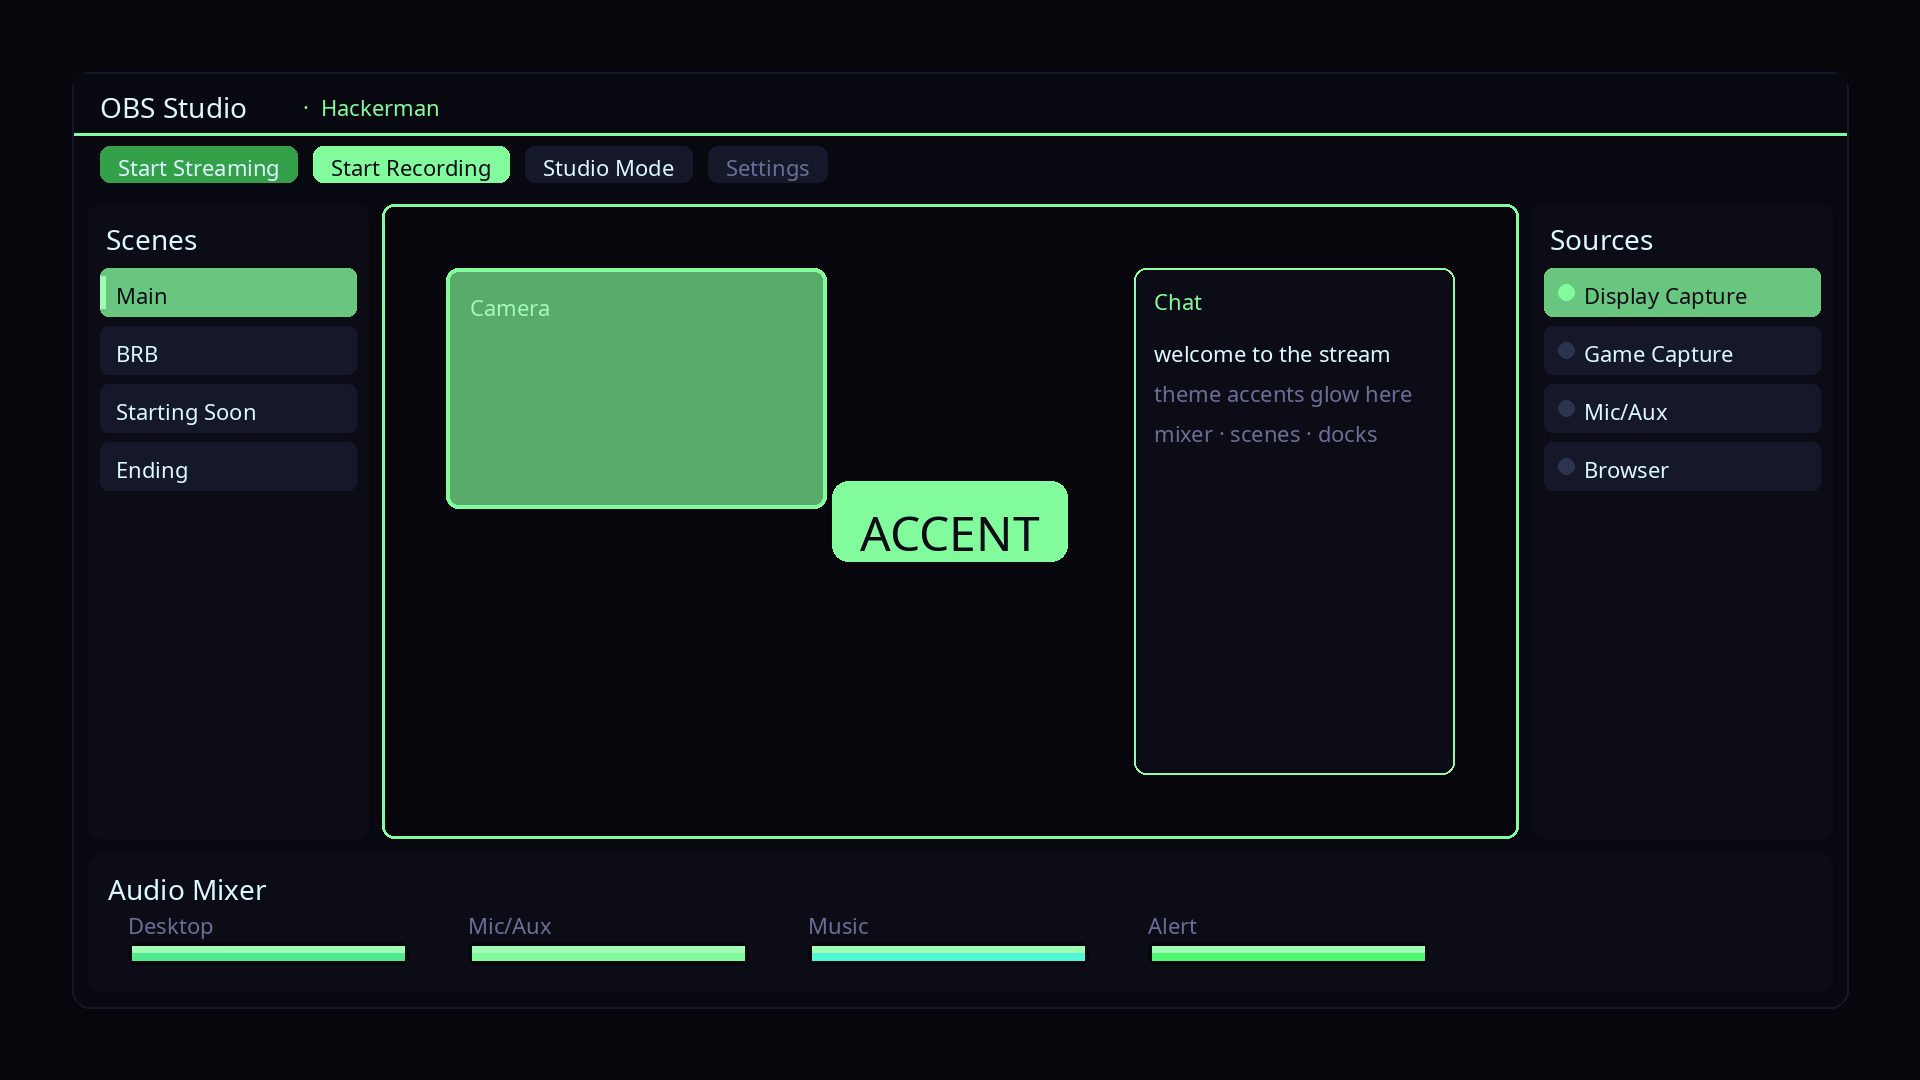
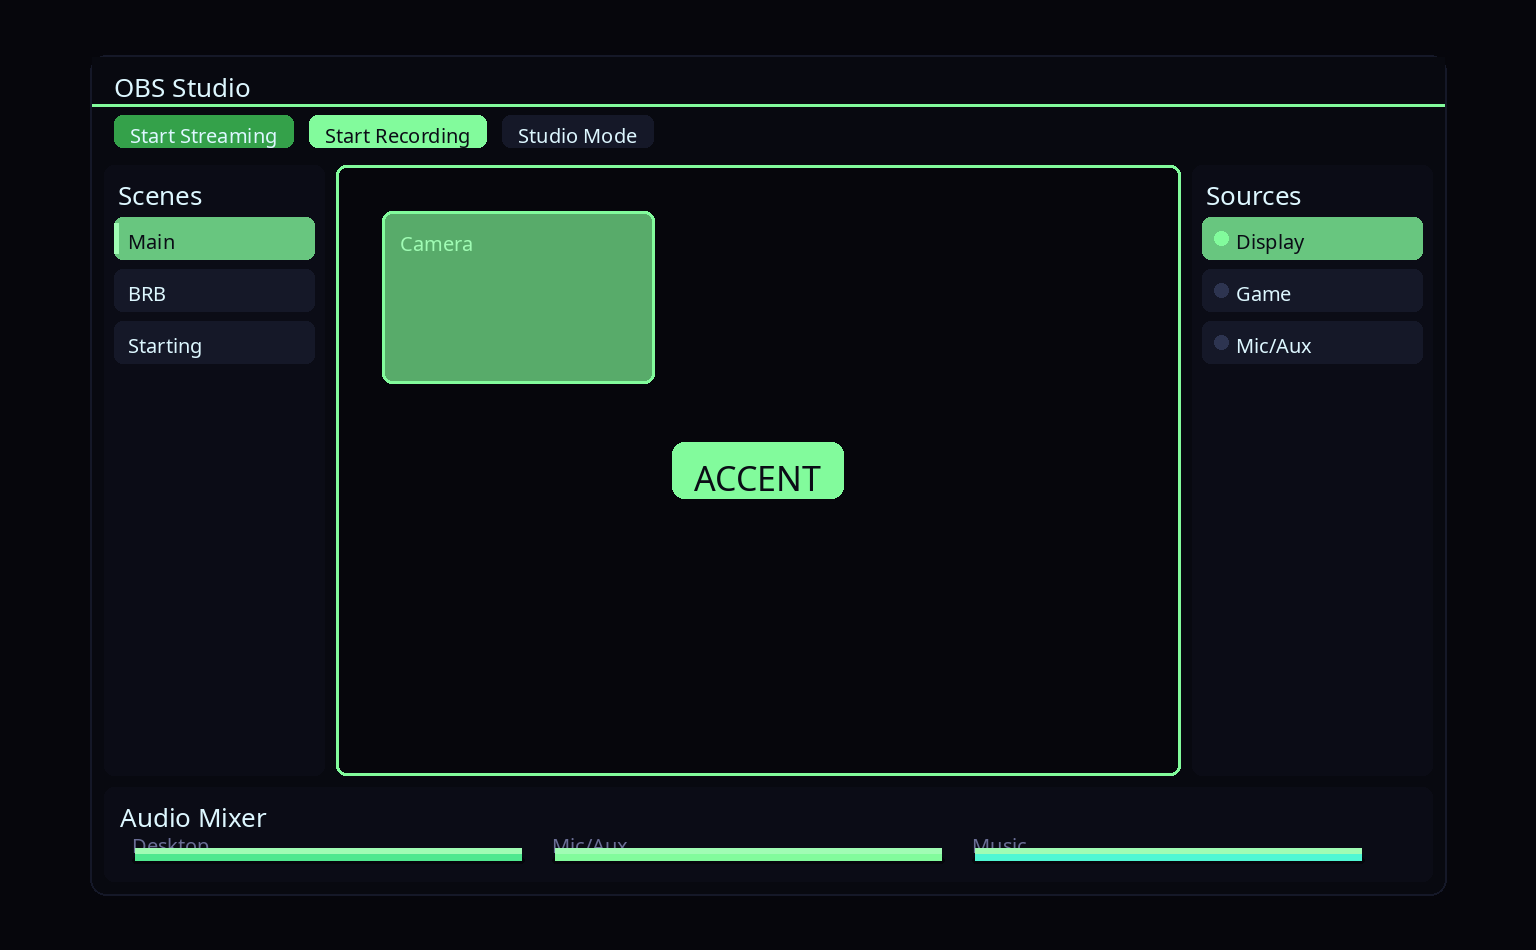
Center OBS mockups for the Style carousel and document no-extra-asset goals.
Match the tile aspect so picker crop stops shaving docks/labels, and clarify
that mockups are illustrative — only Omarchy.ovt is the real apply path.

diff --git a/lib/omaobs.py b/lib/omaobs.py
@@ -1,5 +1,9 @@
 #!/usr/bin/env python3
-"""OmaOBS — turn Omarchy palettes into OBS Studio Yami variants + mockups."""
+"""OmaOBS — Omarchy palettes → OBS Yami variants + Style-carousel mockups.
+
+Discovers every theme with a colors.toml (no extra theme assets). Mockups are
+illustrative OBS chrome matched to the Style tile aspect — not live captures.
+"""
 
 from __future__ import annotations
 
@@ -689,170 +693,153 @@ def draw_round_rect(
     draw.rounded_rectangle(box, radius=radius, fill=fill, outline=outline, width=width)
 
 
-def render_mockup(palette: dict[str, Any], dest: Path, size: tuple[int, int] = (1920, 1080)) -> Path:
+# Style carousel selected tile is 768×475 (~1.62). Match that aspect so
+# PreserveAspectCrop does not shave left/right the way 16:9 sources do.
+MOCKUP_SIZE = (1536, 950)
+
+
+def render_mockup(palette: dict[str, Any], dest: Path, size: tuple[int, int] = MOCKUP_SIZE) -> Path:
+    """Simplified OBS chrome, centered for the Style carousel safe zone."""
     w, h = size
     img = Image.new("RGB", size, hex_to_rgb(palette["grey8"]))
     draw = ImageDraw.Draw(img)
 
-    font_sm = try_font(22)
-    font_md = try_font(28)
-    font_lg = try_font(36)
-    font_xl = try_font(48)
+    font_sm = try_font(20)
+    font_md = try_font(26)
+    font_lg = try_font(34)
 
-    # Outer desktop margin
-    margin = 72
-    win = (margin, margin, w - margin, h - margin)
-    draw_round_rect(draw, win, palette["grey7"], radius=18, outline=palette["grey5"], width=2)
+    # Window inset — keep docks/preview inside the tile, not at the bleed.
+    margin_x, margin_y = 90, 55
+    win = (margin_x, margin_y, w - margin_x, h - margin_y)
+    draw_round_rect(draw, win, palette["grey7"], radius=16, outline=palette["grey5"], width=2)
 
-    # Title bar / menubar chrome (bg_window → grey7)
-    title_bottom = margin + 64
-    draw.rectangle((margin + 2, margin + 2, w - margin - 2, title_bottom), fill=hex_to_rgb(palette["grey7"]))
-    draw.text((margin + 28, margin + 16), "OBS Studio", font=font_md, fill=hex_to_rgb(palette["text"]))
-    draw.text(
-        (margin + 220, margin + 20),
-        f"  ·  {palette['name']}",
-        font=font_sm,
+    title_bottom = margin_y + 52
+    draw.rectangle(
+        (margin_x + 2, margin_y + 2, w - margin_x - 2, title_bottom),
+        fill=hex_to_rgb(palette["grey7"]),
+    )
+    draw.text((margin_x + 24, margin_y + 14), "OBS Studio", font=font_md, fill=hex_to_rgb(palette["text"]))
+    draw.rectangle(
+        (margin_x + 2, title_bottom - 3, w - margin_x - 2, title_bottom),
         fill=hex_to_rgb(palette["primary"]),
     )
 
-    # Accent underline under title
+    toolbar_bottom = title_bottom + 48
     draw.rectangle(
-        (margin + 2, title_bottom - 3, w - margin - 2, title_bottom),
-        fill=hex_to_rgb(palette["primary"]),
-    )
-
-    # Toolbar sits on the same chrome strip
-    toolbar_bottom = title_bottom + 56
-    draw.rectangle(
-        (margin + 2, title_bottom, w - margin - 2, toolbar_bottom),
+        (margin_x + 2, title_bottom, w - margin_x - 2, toolbar_bottom),
         fill=hex_to_rgb(palette["grey7"]),
     )
     buttons = [
         ("Start Streaming", palette["button_bg_red"], palette["on_red"]),
         ("Start Recording", palette["primary"], palette["on_accent"]),
         ("Studio Mode", palette["grey5"], palette["text"]),
-        ("Settings", palette["grey5"], palette["text_muted"]),
     ]
-    bx = margin + 28
+    bx = margin_x + 24
     for label, fill, fg in buttons:
         tw = draw.textlength(label, font=font_sm)
-        draw_round_rect(draw, (bx, title_bottom + 10, int(bx + tw + 36), toolbar_bottom - 10), fill, radius=10)
-        draw.text((bx + 18, title_bottom + 16), label, font=font_sm, fill=hex_to_rgb(fg))
-        bx += int(tw + 52)
-
-    # Layout docks
-    content_top = toolbar_bottom + 12
-    content_bottom = h - margin - 170
-    left_w = 280
-    right_w = 300
-
-    left = (margin + 16, content_top, margin + 16 + left_w, content_bottom)
-    right = (w - margin - 16 - right_w, content_top, w - margin - 16, content_bottom)
-    center = (left[2] + 14, content_top, right[0] - 14, content_bottom)
-
-    draw_round_rect(draw, left, palette["grey6"], radius=12)
-    draw_round_rect(draw, right, palette["grey6"], radius=12)
-    draw_round_rect(draw, center, palette["grey8"], radius=12, outline=palette["primary"], width=3)
-
-    # Scenes dock
-    draw.text((left[0] + 18, left[1] + 16), "Scenes", font=font_md, fill=hex_to_rgb(palette["text"]))
-    scenes = [("Main", True), ("BRB", False), ("Starting Soon", False), ("Ending", False)]
-    sy = left[1] + 64
-    for label, selected in scenes:
-        box = (left[0] + 12, sy, left[2] - 12, sy + 48)
-        fill = palette["selected_bg"] if selected else palette["grey5"]
-        ink = palette["on_selected"] if selected else palette["text"]
-        draw_round_rect(draw, box, fill, radius=8)
-        draw.text((box[0] + 16, box[1] + 12), label, font=font_sm, fill=hex_to_rgb(ink))
-        if selected:
-            draw.rectangle((box[0], box[1] + 8, box[0] + 5, box[3] - 8), fill=hex_to_rgb(palette["primary_lighter"]))
-        sy += 58
-
-    # Sources dock
-    draw.text((right[0] + 18, right[1] + 16), "Sources", font=font_md, fill=hex_to_rgb(palette["text"]))
-    sources = [("Display Capture", True), ("Game Capture", False), ("Mic/Aux", False), ("Browser", False)]
-    sy = right[1] + 64
-    for label, selected in sources:
-        box = (right[0] + 12, sy, right[2] - 12, sy + 48)
-        fill = palette["selected_bg"] if selected else palette["grey5"]
-        ink = palette["on_selected"] if selected else palette["text"]
-        draw_round_rect(draw, box, fill, radius=8)
-        # visibility dot in accent
-        draw.ellipse((box[0] + 14, box[1] + 16, box[0] + 30, box[1] + 32), fill=hex_to_rgb(palette["primary"] if selected else palette["muted"]))
-        draw.text((box[0] + 40, box[1] + 12), label, font=font_sm, fill=hex_to_rgb(ink))
-        sy += 58
-
-    # Preview canvas content
-    preview_inset = (center[0] + 24, center[1] + 24, center[2] - 24, center[3] - 24)
-    draw_round_rect(draw, preview_inset, palette["darker_background"], radius=10)
-    # Fake webcam / content blocks tinted with accent
-    cam = (
-        preview_inset[0] + 40,
-        preview_inset[1] + 40,
-        preview_inset[0] + 420,
-        preview_inset[1] + 280,
-    )
-    draw_round_rect(draw, cam, palette["primary_darker"], radius=12, outline=palette["primary"], width=4)
-    draw.text((cam[0] + 24, cam[1] + 24), "Camera", font=font_sm, fill=hex_to_rgb(palette["primary_lighter"]))
-
-    chat = (
-        preview_inset[2] - 360,
-        preview_inset[1] + 40,
-        preview_inset[2] - 40,
-        preview_inset[3] - 40,
-    )
-    draw_round_rect(draw, chat, palette["grey6"], radius=12, outline=palette["primary_light"], width=2)
-    draw.text((chat[0] + 20, chat[1] + 18), "Chat", font=font_sm, fill=hex_to_rgb(palette["primary"]))
-    for i, line in enumerate(("welcome to the stream", "theme accents glow here", "mixer · scenes · docks")):
-        draw.text(
-            (chat[0] + 20, chat[1] + 70 + i * 40),
-            line,
-            font=font_sm,
-            fill=hex_to_rgb(palette["text_muted"] if i else palette["text"]),
+        draw_round_rect(
+            draw, (bx, title_bottom + 8, int(bx + tw + 32), toolbar_bottom - 8), fill, radius=8
         )
+        draw.text((bx + 16, title_bottom + 14), label, font=font_sm, fill=hex_to_rgb(fg))
+        bx += int(tw + 48)
 
-    # Big accent badge in preview
-    badge = "ACCENT"
-    bw = draw.textlength(badge, font=font_xl)
-    badge_box = (
-        int((preview_inset[0] + preview_inset[2] - bw) / 2 - 28),
-        int((preview_inset[1] + preview_inset[3]) / 2 - 40),
-        int((preview_inset[0] + preview_inset[2] + bw) / 2 + 28),
-        int((preview_inset[1] + preview_inset[3]) / 2 + 40),
+    content_top = toolbar_bottom + 10
+    content_bottom = h - margin_y - 120
+    left_w = 220
+    right_w = 240
+
+    left = (margin_x + 14, content_top, margin_x + 14 + left_w, content_bottom)
+    right = (w - margin_x - 14 - right_w, content_top, w - margin_x - 14, content_bottom)
+    center = (left[2] + 12, content_top, right[0] - 12, content_bottom)
+
+    draw_round_rect(draw, left, palette["grey6"], radius=10)
+    draw_round_rect(draw, right, palette["grey6"], radius=10)
+    draw_round_rect(draw, center, palette["grey8"], radius=10, outline=palette["primary"], width=3)
+
+    draw.text((left[0] + 14, left[1] + 12), "Scenes", font=font_md, fill=hex_to_rgb(palette["text"]))
+    scenes = [("Main", True), ("BRB", False), ("Starting", False)]
+    sy = left[1] + 52
+    for label, selected in scenes:
+        box = (left[0] + 10, sy, left[2] - 10, sy + 42)
+        fill = palette["selected_bg"] if selected else palette["grey5"]
+        ink = palette["on_selected"] if selected else palette["text"]
+        draw_round_rect(draw, box, fill, radius=8)
+        draw.text((box[0] + 14, box[1] + 10), label, font=font_sm, fill=hex_to_rgb(ink))
+        if selected:
+            draw.rectangle(
+                (box[0], box[1] + 6, box[0] + 4, box[3] - 6),
+                fill=hex_to_rgb(palette["primary_lighter"]),
+            )
+        sy += 52
+
+    draw.text((right[0] + 14, right[1] + 12), "Sources", font=font_md, fill=hex_to_rgb(palette["text"]))
+    sources = [("Display", True), ("Game", False), ("Mic/Aux", False)]
+    sy = right[1] + 52
+    for label, selected in sources:
+        box = (right[0] + 10, sy, right[2] - 10, sy + 42)
+        fill = palette["selected_bg"] if selected else palette["grey5"]
+        ink = palette["on_selected"] if selected else palette["text"]
+        draw_round_rect(draw, box, fill, radius=8)
+        draw.ellipse(
+            (box[0] + 12, box[1] + 14, box[0] + 26, box[1] + 28),
+            fill=hex_to_rgb(palette["primary"] if selected else palette["muted"]),
+        )
+        draw.text((box[0] + 34, box[1] + 10), label, font=font_sm, fill=hex_to_rgb(ink))
+        sy += 52
+
+    preview_inset = (center[0] + 18, center[1] + 18, center[2] - 18, center[3] - 18)
+    draw_round_rect(draw, preview_inset, palette["darker_background"], radius=8)
+    cam = (
+        preview_inset[0] + 28,
+        preview_inset[1] + 28,
+        preview_inset[0] + 300,
+        preview_inset[1] + 200,
     )
-    draw_round_rect(draw, badge_box, palette["primary"], radius=16)
+    draw_round_rect(draw, cam, palette["primary_darker"], radius=10, outline=palette["primary"], width=3)
+    draw.text((cam[0] + 18, cam[1] + 18), "Camera", font=font_sm, fill=hex_to_rgb(palette["primary_lighter"]))
+
+    badge = "ACCENT"
+    bw = draw.textlength(badge, font=font_lg)
+    badge_box = (
+        int((preview_inset[0] + preview_inset[2] - bw) / 2 - 22),
+        int((preview_inset[1] + preview_inset[3]) / 2 - 28),
+        int((preview_inset[0] + preview_inset[2] + bw) / 2 + 22),
+        int((preview_inset[1] + preview_inset[3]) / 2 + 28),
+    )
+    draw_round_rect(draw, badge_box, palette["primary"], radius=12)
     draw.text(
-        (badge_box[0] + 28, badge_box[1] + 18),
+        (badge_box[0] + 22, badge_box[1] + 12),
         badge,
-        font=font_xl,
+        font=font_lg,
         fill=hex_to_rgb(palette["on_accent"]),
     )
 
-    # Mixer strip
-    mixer_top = content_bottom + 16
-    mixer = (margin + 16, mixer_top, w - margin - 16, h - margin - 16)
-    draw_round_rect(draw, mixer, palette["grey6"], radius=12)
-    draw.text((mixer[0] + 20, mixer[1] + 16), "Audio Mixer", font=font_md, fill=hex_to_rgb(palette["text"]))
+    mixer_top = content_bottom + 12
+    mixer = (margin_x + 14, mixer_top, w - margin_x - 14, h - margin_y - 14)
+    draw_round_rect(draw, mixer, palette["grey6"], radius=10)
+    draw.text((mixer[0] + 16, mixer[1] + 12), "Audio Mixer", font=font_md, fill=hex_to_rgb(palette["text"]))
 
     meters = [
         ("Desktop", palette["green"], 0.82),
         ("Mic/Aux", palette["primary"], 0.55),
         ("Music", palette["yellow"], 0.35),
-        ("Alert", palette["red"], 0.2),
     ]
-    mx = mixer[0] + 40
-    meter_bottom = mixer[3] - 28
-    meter_top = mixer[1] + 60
+    mx = mixer[0] + 28
+    meter_bottom = mixer[3] - 18
+    meter_top = mixer[1] + 48
+    meter_w = max(160, (mixer[2] - mixer[0] - 80) // len(meters) - 24)
     for label, color, level in meters:
         draw.text((mx, meter_top - 4), label, font=font_sm, fill=hex_to_rgb(palette["text_muted"]))
-        bar = (mx, meter_top + 28, mx + 280, meter_bottom)
-        draw_round_rect(draw, bar, palette["grey8"], radius=8)
-        height = max(14, int((bar[3] - bar[1] - 8) * level))
-        filled_top = bar[3] - 4 - height
-        draw.rectangle((bar[0] + 4, filled_top, bar[2] - 4, bar[3] - 4), fill=hex_to_rgb(color))
-        # Peak cap in accent
-        draw.rectangle((bar[0] + 4, filled_top, bar[2] - 4, filled_top + 6), fill=hex_to_rgb(palette["primary_lighter"]))
-        mx += 340
+        bar = (mx, meter_top + 22, mx + meter_w, meter_bottom)
+        draw_round_rect(draw, bar, palette["grey8"], radius=6)
+        height = max(12, int((bar[3] - bar[1] - 6) * level))
+        filled_top = bar[3] - 3 - height
+        draw.rectangle((bar[0] + 3, filled_top, bar[2] - 3, bar[3] - 3), fill=hex_to_rgb(color))
+        draw.rectangle(
+            (bar[0] + 3, filled_top, bar[2] - 3, filled_top + 5),
+            fill=hex_to_rgb(palette["primary_lighter"]),
+        )
+        mx += meter_w + 28
 
     dest.parent.mkdir(parents=True, exist_ok=True)
     img.save(dest, format="PNG", optimize=True)

diff --git a/README.md b/README.md
@@ -16,6 +16,24 @@ lockstep forever after.
 > Illustrative mockup of the same pipeline (Hackerman): see
 > [preview-mockup.png](preview-mockup.png).
 
+## Goals (and honest limits)
+
+These Style plugins extend Omarchy’s theme system **without requiring theme
+authors — or you — to ship anything extra**. Official themes, your forks, and
+third-party installs all work as long as they have a `colors.toml`.
+
+| Goal | What that means here |
+|------|----------------------|
+| Zero extra assets | No per-theme OBS screenshots. Colours come from `colors.toml` alone. |
+| Extreme compatibility | Stock + user + foreign themes all appear in the picker automatically. |
+| Illustrative mockups | Centered OBS-ish chrome. **Not** a live OBS window capture and **not** WYSIWYG. |
+| Carousel-safe | Mockups match the Style tile aspect (~768×475) so edge text is not cropped. |
+| Slow pickers are OK | Warming every theme PNG takes a moment; that is the cost of generating previews instead of bundling assets. |
+
+True WYSIWYG would mean launching OBS and grim’ing it per theme — slow,
+fragile, and out of scope. The applied `Omarchy.ovt` *is* real; only the
+picker art is drawn.
+
 ## What you get
 
 - **Style → OBS Themes** in the Omarchy menu — same carousel picker as Unlock /
@@ -89,7 +107,6 @@ OmaOBS state/cache. Scene collections are untouched.
   first time needs one OBS restart (or pick Omarchy under Settings → Appearance).
 - Individual stock OBS variants (Acri, Rachni, …) are left alone; OmaOBS owns
   only `Omarchy.ovt`.
-- Mockups are illustrative, not pixel-perfect OBS chrome.
 
 ## Check
 
@@ -104,6 +121,9 @@ bash ~/.config/omarchy/plugins/io.github.alxwolfenstein97.omaobs/check.sh
   themes, windows, screenshots, …) on the official **Hackerman** theme.
   `omarchy plugin add https://github.com/btsouth/omarchy-omcp --enable`
 - Mockup strip: [preview-mockup.png](preview-mockup.png).
+- Sibling Style plugins: [OmaBoot](https://github.com/AlxWolfenstein97/omaboot),
+  [OmaVT](https://github.com/AlxWolfenstein97/omavt),
+  [OmaTTY](https://github.com/AlxWolfenstein97/omatty).
 - [Omarchy](https://omarchy.org/) — theme pipeline, Style menu image picker, and
   `theme-set` hooks this plugin hooks into.
 
